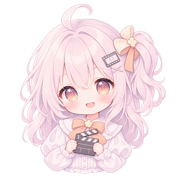
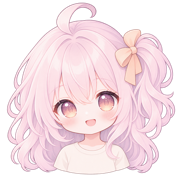
fix: simplify mascot to a clean shoulder portrait

diff --git a/index.html b/index.html
@@ -4,10 +4,10 @@
     <meta charset="UTF-8" />
     <meta name="viewport" content="width=device-width, initial-scale=1.0" />
     <meta name="theme-color" content="#fafafa" />
-    <link rel="icon" type="image/x-icon" sizes="16x16 32x32 48x48" href="/favicon.ico?v=family-2" />
-    <link rel="icon" type="image/png" sizes="48x48" href="/favicon-48.png?v=family-2" />
-    <link rel="icon" type="image/png" sizes="192x192" href="/favicon-192.png?v=family-2" />
-    <link rel="apple-touch-icon" sizes="180x180" href="/apple-touch-icon.png?v=family-2" />
+    <link rel="icon" type="image/x-icon" sizes="16x16 32x32 48x48" href="/favicon.ico?v=family-3" />
+    <link rel="icon" type="image/png" sizes="48x48" href="/favicon-48.png?v=family-3" />
+    <link rel="icon" type="image/png" sizes="192x192" href="/favicon-192.png?v=family-3" />
+    <link rel="apple-touch-icon" sizes="180x180" href="/apple-touch-icon.png?v=family-3" />
     <meta data-koma-seo name="description" content="Koma is a self-hosted AI video analysis website." />
     <title data-koma-seo>Koma — AI Video Understanding</title>
   </head>

diff --git a/docs/logo-assets.md b/docs/logo-assets.md
@@ -1,20 +1,14 @@
 # Koma family mascot
 
-The user explicitly placed Koma in the Kiri, Mimi, and Fuwa product family. The current proposed avatar follows the supplied Kiri/Mimi artwork: soft pastel cel shading, a round face, large luminous eyes, delicate colored lines, and a clean isolated character composition. Koma uses a pale apricot ribbon, pearl-white side ponytail, film-strip hair clip, and small clapperboard. Do not reinterpret this as a mature editorial woman, heavy black ink, or flat recoloring.
+Koma belongs to the Kiri, Mimi, and Fuwa product family. The current avatar retains the softly colored chibi face, pearl-pink hair, side ponytail and pale apricot hair ribbon. It is a simple head-and-shoulders portrait in a plain ivory top, with actual transparent background.
 
-- [Avatar](../public/koma-family-logo.png): 512 × 512 RGBA PNG; 321798 bytes; SHA-256 bec156238767980b7a07c3dd29459d6538d697c89a0bde4e39211b2cb25f42de.
-- Shared by the public brand, help dialog, README, social previews, and existing admin branding. The right-hand account control uses the signed-in user’s own GitHub avatar, never this mascot.
-- Browser icon exports: favicon.ico (16/32/48), favicon-48.png, favicon-192.png, apple-touch-icon.png (180). Versioned URLs refresh the icon cache.
-- Built-in image_gen generated the avatar from the actual Kiri and Mimi source icons. Exports preserve the generated alpha.
+The user explicitly removed the recording motif and elaborate lower body: no clapperboard, hands, film clip, chest bow, frills, frame, stars, background disk or ornamental backing. Keep the face and restrained family style.
 
-## Original generation prompt (superseded background)
+- [Avatar](../public/koma-family-logo.png): 512 × 512 RGBA PNG; 354358 bytes; SHA-256 df52a5ae49bcef52f255c82debb9f96871438627774355d9843513769906f36b.
+- Shared by public branding, help, README, social previews and existing admin branding. The account control uses the user's own GitHub avatar.
+- Browser exports: favicon.ico (16/32/48), favicon-48.png, favicon-192.png and apple-touch-icon.png (180).
+- Edited with built-in image_gen; exports preserve its alpha channel.
 
-Use case: logo-brand. Design Koma as a new sister mascot in the EXACT visual family of the two supplied Kiri and Mimi icons. These two images are the primary art-direction references: match their softly rounded youthful chibi face proportions, very large glossy pastel eyes, delicate fine colored outlines, airy hair strands grouped into clean shapes, pale luminous cel shading, modest cute blouse, and meticulously finished small app-icon composition. This is a new original family member, not an adult editorial portrait, not a monochrome ink sticker and not simple coloring of a black outline. Koma's own identity: pearl-white hair with soft pale apricot shadows, ONE fluffy side ponytail, gentle honey-rose eyes, tiny happy open smile, soft blush, one small cream-and-apricot ribbon, and a tiny film-strip hair clip with no lettering. White rounded-collar blouse with a pale apricot neck bow and a very small dark-gray movie clapperboard held close below her chin; tiny hands naturally visible. Her head dominates the image, face is as round, cute and youthful as the references. Distinct understated peach/apricot color family, paired with ivory and a touch of muted lavender in shadows; not saturated orange, not a new page theme. Include a very delicate pale apricot circular frame and only 2 or 3 tiny soft star accents, like the sister app icons. The girl, circle and bow must all fit inside a square canvas with 10% safe margin. Transparent background OUTSIDE the delicate circular composition, very pale ivory within the circle. No rounded-square app tile, no words, no letters, no watermark. Draw one polished complete app-avatar composition, no alternatives. Keep detailed painterly realism out; match the supplied high-quality pastel anime icon illustration language precisely.
+## Current edit prompt
 
-## Current background correction
-
-The user requested a clean transparent background on white, without decorative effects. Remove the circular frame, filled disk, stars, sparkles, dots, and separate bottom decorative bow. Preserve the colored character, hair accessories, blouse, hands, and clapperboard. The built-in image_gen edit preserves actual alpha; all icon exports use this corrected asset.
-
-### Edit prompt
-
-Use case: background-extraction. Edit the supplied Koma mascot image. Remove the entire circular frame, pale filled circular background, dashed border, floating stars, sparkles, stray colored dots and the separate decorative bow at the very bottom. Keep ONLY the girl herself, her hair ribbon and film hairclip, blouse, neck bow, hands and small clapperboard. Preserve her face, expression, pose, pastel colors, delicate anime drawing and identity closely. Complete the small lower edge of the blouse naturally if removing the decorative bottom bow requires it. Center the clean head-and-shoulders character with modest clear margin on a square canvas. Actual transparent alpha everywhere outside the character, including gaps around hair; no white disk, no halo, no shadow, no decorative backing, no checkerboard drawn in the image, no text. It must look clean on a plain white website. Do not add ornamentation or redesign her.
+Use case: precise-object-edit. Edit the supplied Koma girl avatar. The user likes the FACE: preserve her face, eye design, expression, pastel hair colors, side ponytail, and overall chibi anime identity very closely. Replace the lower-body composition with a clean HEAD-AND-SHOULDERS avatar: a large face and hair, with only a small amount of shoulders and a simple plain ivory round-neck top visible at the bottom. Remove BOTH hands, the clapperboard, all recording/film accessories including the film-strip hairclip, chest bow, frilly collar, puff sleeves and visible torso/buttons. Keep the one modest pale-apricot ribbon tying her side ponytail; simplify its flower center to a plain knot. No objects being held, no recording motif. Do not change the appealing face or make her older. Compact square avatar framing, with complete hair silhouette and comfortable margin. Fully transparent alpha outside the character. No circle, frame, badge, stars, sparkles, decorative background, shadow, halo, white disk, text or watermark. Natural simple shoulder silhouette at the bottom, not a full-body chibi doll. Clean and restrained while retaining the soft colored anime family style.

diff --git a/docs/visual-assets.md b/docs/visual-assets.md
@@ -7,3 +7,5 @@ The working area prioritizes video input, analysis requirements, saved videos, p
 The right-hand account menu uses the authenticated user’s GitHub photo or an initial when unavailable. The service’s own mascot must not stand in for the user.
 
 The current mascot is a transparent character cutout on the white interface. Do not restore a circular backing, stars, sparkles, patterns, or a decorative bottom bow.
+
+Use a simple head-and-shoulders portrait with a plain ivory top. Recording accessories, hands and elaborate clothing were explicitly removed; keep the face as the focus.
